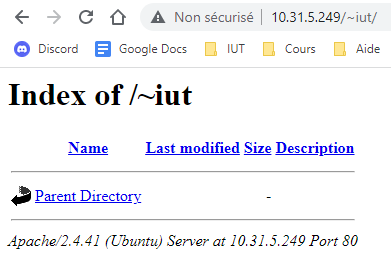
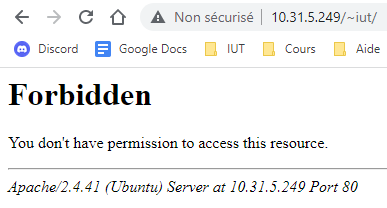
3. Serveur Web sécurisé https

diff --git a/README.md b/README.md
@@ -58,7 +58,7 @@ Réalisée par **SIKORA Tom** et **DARROZES Guillaume** du groupe 3, et encadré
 - Création d'un deuxième serveur Web (**http://2A4V1-31UVM249.ad-urca.univ-reims.fr**).
 - `sudo mkdir ~/mon_serveur` : Création d'un répertoire de travail *mon_serveur* dans le répertoire d'accueil.
 - `sudo chown iut:www-data mon_serveur/` : Attribution des droits d'accès au répertoire *mon_serveur* pour l'utilisateur www-data.
-- `ln -s /home/iut/mon_serveur /var/www` : Création d'un lien symbolique du répertoire *mon_serveur* vers l'arborescence */var/www*.
+- `sudo ln -s /home/iut/mon_serveur /var/www` : Création d'un lien symbolique du répertoire *mon_serveur* vers l'arborescence */var/www*.
 - `touch mon_serveur/index.html` : Création d'un fichier *index.html* dans le répertoire *mon_serveur*.
 - `sudo nano mon_serveur/index.html` : Modification du fichier *index.html*.
 - `cd /etc/apache2/sites-available` : Déplacement dans le répertoire */etc/apache2/sites-available*.
@@ -67,3 +67,17 @@ Réalisée par **SIKORA Tom** et **DARROZES Guillaume** du groupe 3, et encadré
 - `sudo a2ensite 2A4V1-31UVM249` : Activation du site.
 - `systemctl reload apache2` : Rechargement de la configuration d'apache.
 - Vérification de l'accès du serveur (**http://2A4V1-31UVM249.ad-urca.univ-reims.fr**).
+
+## 3. Serveur Web sécurisé https
+**Travail à réaliser**
+- `dpkg -l | grep ssl` : Vérification de la présence des paquets libssl, openssl et ssl-cert.
+- Aucun paquets manquants.
+- `sudo mkdir /etc/apache2/ssl` : Création d'un répertoire pour stocker le certificat.
+- `sudo /usr/sbin/make-ssl-cert /usr/share/ssl-cert/ssleay.cnf /etc/apache2/ssl/apache.pem` : Création du certificat correspondant à notre site dans le répertoire */etc/apache2/ssl*.
+- `nano /etc/apache2/ports.conf` : Vérification du port d'écoute par défaut en ssl (443).
+- `cp /etc/apache2/sites-available/default-ssl.conf /etc/apache2/sites-available/mon-serveur-ssl.conf` : Création du fichier de configuration VirtualHost de notre serveur ssl.
+- `sudo nano /etc/apache2/sites-available/mon-serveur-ssl.conf` : Modification du fichier *mon-serveur-ssl.conf*.
+- `a2enmod ssl` : Activation du module ssl d'apache.
+- `a2ensite mon-serveur-ssl.conf` : Activation de notre site.
+- `systemctl restart apache2` : Redémarrage du service apache2.
+- Vérification de l'accès aux pages (**http://2A4V1-31UVM249.ad-urca.univ-reims.fr**).
